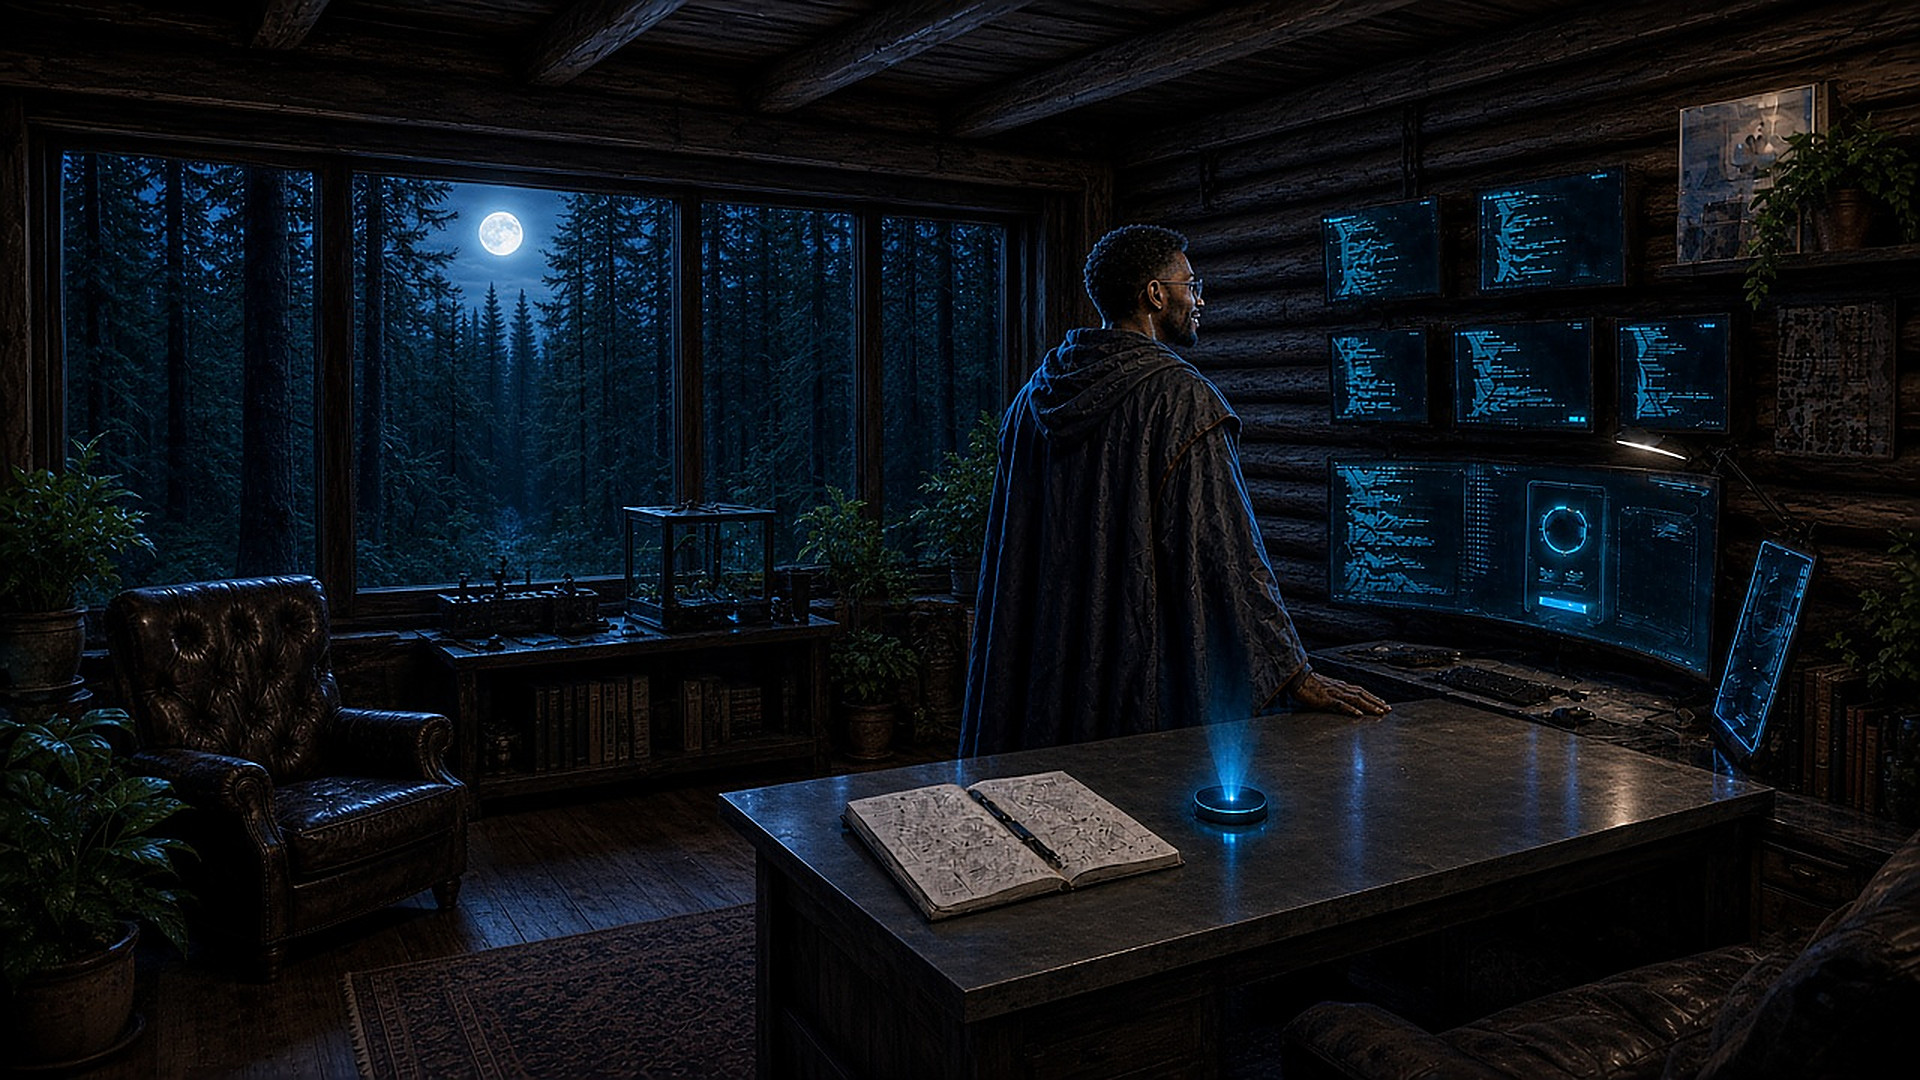
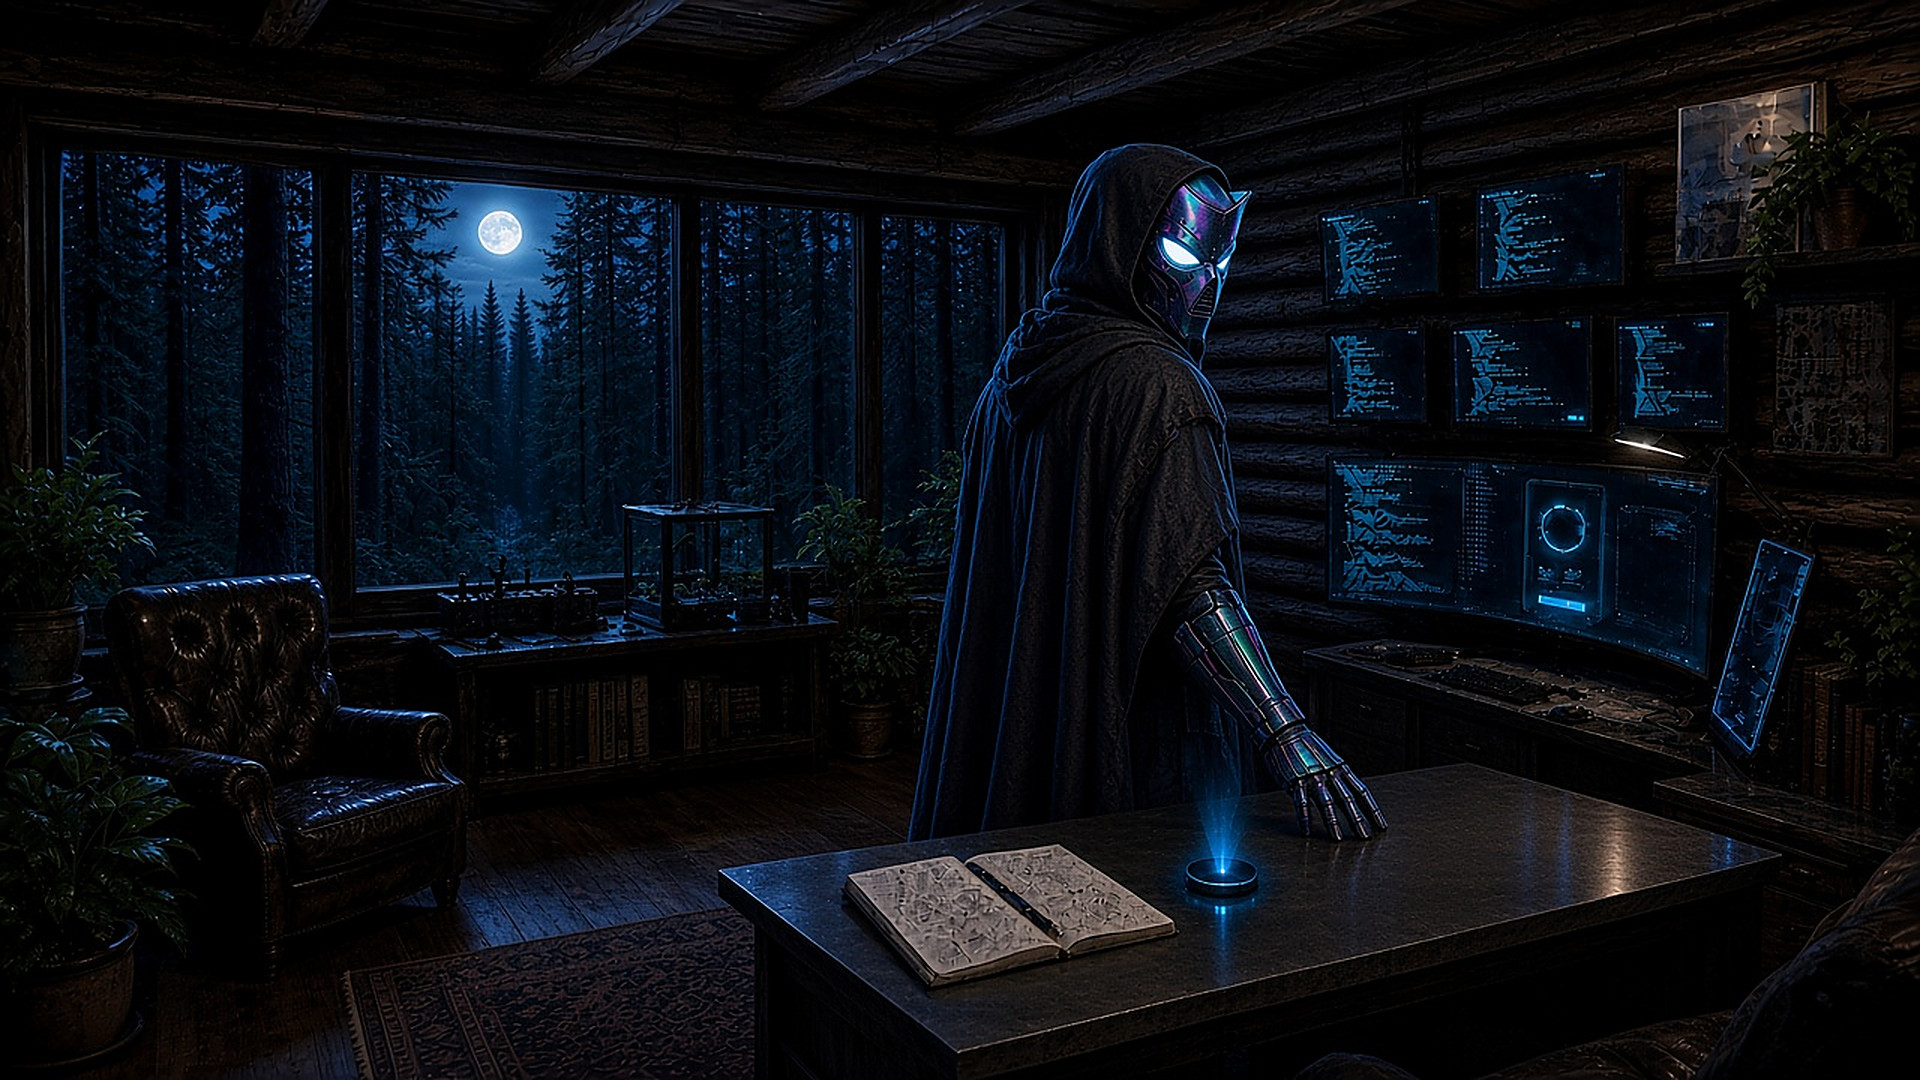
Hide Caelum's identity in the lab stills with a cyber mask and glove.

diff --git a/index.html b/index.html
@@ -7,13 +7,13 @@
     <meta name="description" content="Caelum Mercer — independent app producer. Thoughtful software for everyday life.">
     <meta property="og:title" content="Caelum Mercer">
     <meta property="og:description" content="Independent app producer. Step into the lab.">
-    <meta property="og:image" content="images/lab-night.jpg?v=27">
+    <meta property="og:image" content="images/lab-night.jpg?v=28">
     <meta name="theme-color" content="#0A0A0B">
     <link rel="icon" type="image/svg+xml" href="favicon.svg">
     <link rel="preconnect" href="https://fonts.googleapis.com">
     <link rel="preconnect" href="https://fonts.gstatic.com" crossorigin>
     <link href="https://fonts.googleapis.com/css2?family=Fraunces:opsz,wght@9..144,500;9..144,600&family=Outfit:wght@400;500;600;700&display=swap" rel="stylesheet">
-    <link rel="stylesheet" href="site.css?v=34">
+    <link rel="stylesheet" href="site.css?v=35">
     <style>html,body{background:#07080c;color:#F5F3EE}</style>
 </head>
 <body>
@@ -33,8 +33,8 @@
 
     <main id="lab" class="lab">
         <div class="lab-scene" id="lab-scene">
-            <img class="lab-photo lab-photo--night" src="images/lab-night.jpg?v=27" alt="Caelum Mercer in dark robes standing in his cyber-cabin lab at night" width="1920" height="1080">
-            <img class="lab-photo lab-photo--day" src="images/lab-day.jpg?v=27" alt="Caelum Mercer in dark robes standing in his cyber-cabin lab during the day" width="1920" height="1080">
+            <img class="lab-photo lab-photo--night" src="images/lab-night.jpg?v=28" alt="Caelum Mercer in a hooded cloak and iridescent cyber mask, cyber glove on the desk, standing in his cabin lab at night" width="1920" height="1080">
+            <img class="lab-photo lab-photo--day" src="images/lab-day.jpg?v=28" alt="Caelum Mercer in a hooded cloak and iridescent cyber mask, cyber glove on the desk, standing in his cabin lab during the day" width="1920" height="1080">
 
             <div class="sky-glow" aria-hidden="true"></div>
 

diff --git a/site.css b/site.css
@@ -161,8 +161,8 @@ button {
     z-index: 0;
 }
 
-html[data-sky="night"] { --lab-image: url("images/lab-night.jpg"); }
-html[data-sky="day"] { --lab-image: url("images/lab-day.jpg"); }
+html[data-sky="night"] { --lab-image: url("images/lab-night.jpg?v=28"); }
+html[data-sky="day"] { --lab-image: url("images/lab-day.jpg?v=28"); }
 
 /* The artwork defines the stage: the scene box always stays 16:9 so overlays
    can sit in image coordinates. Width grows toward cover, but never so far
